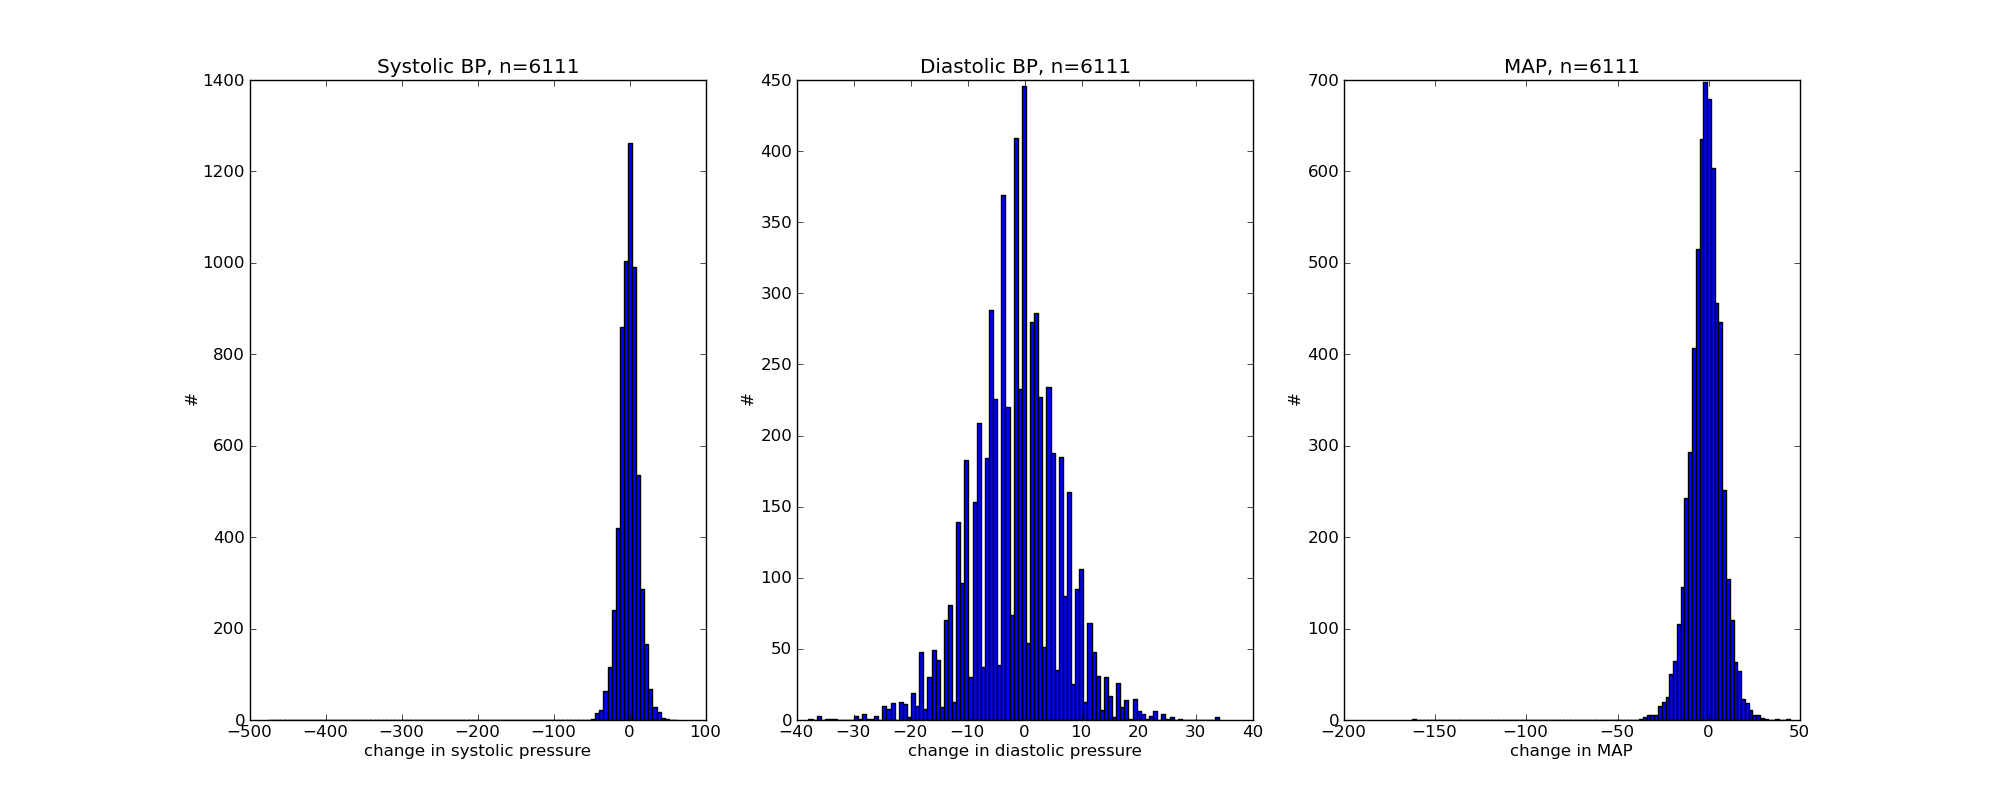
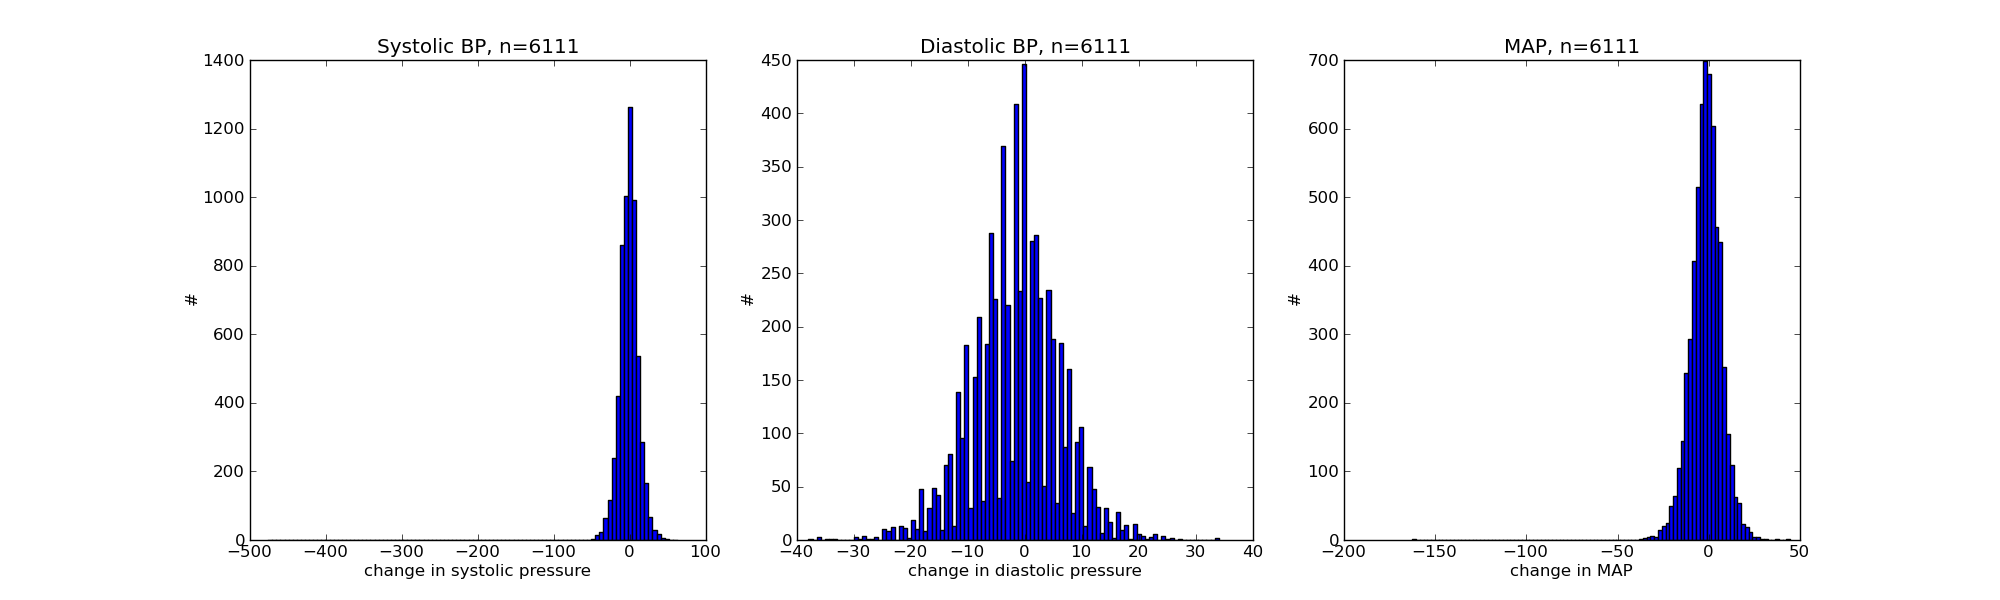
remade histograms - PACE server

diff --git a/analysis_code/make_histogram_features.py b/analysis_code/make_histogram_features.py
@@ -99,7 +99,7 @@ plt.close()
 
 #histogram of change in BP: 
 fig = plt.figure(2)
-fig.set_size_inches(20,8)
+fig.set_size_inches(20,6)
 plt.subplot(131)
 data = df_BPSTATUS_Phenotype_BMI_ECG_EGFR_BPCHANGE[isnan(df_BPSTATUS_Phenotype_BMI_ECG_EGFR_BPCHANGE['MEDIAN_SYSTOLIC_CHANGE'])==False]['MEDIAN_SYSTOLIC_CHANGE']
 plt.hist(data , bins=100)
